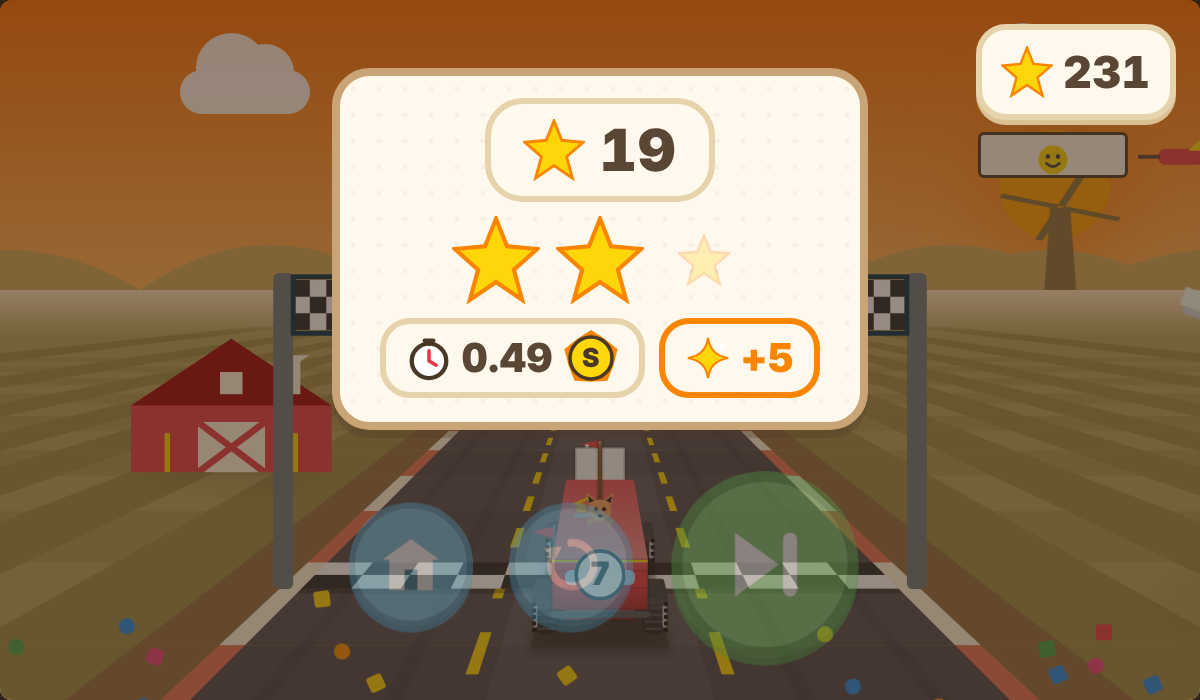
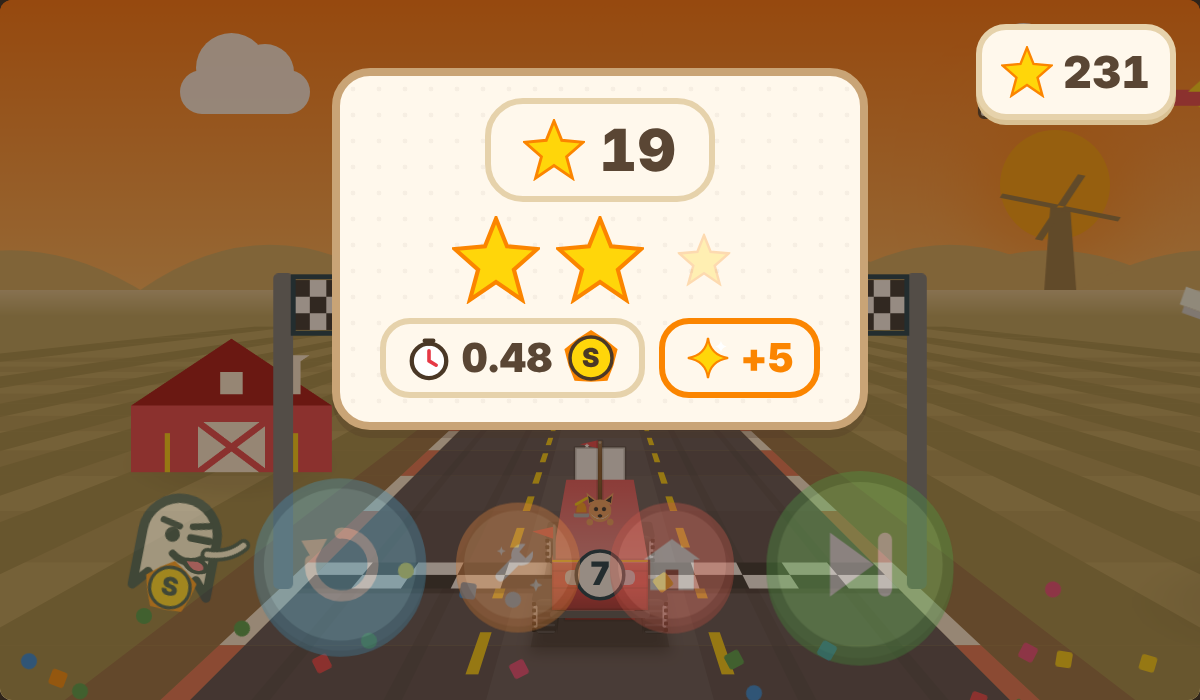
The ghost to beat taunts from the left of AGAIN (v13.10.1)
The tease no longer hides under the results card above the button: it sits out to the left
of AGAIN as a taunting ghost (ghostTauntIcon: eyes on the button, one winking, tongue out, an
arm waving it over) on a wobble that leans in toward the button, with the tongue and arm on
their own loops and the medal hanging below. The parade's slashed ghost stays calm and faded.
All of it is in the reduced-motion list. docs/celebrate.png regenerated. Battery 450/450.

Claude-Session: https://claude.ai/code/session_016ck1aPGLVyXfjAcF2qTzon

diff --git a/index.html b/index.html
@@ -654,15 +654,21 @@
   #celebrateHomeBtn { background: #e63946; }
   #garageBtn svg, #celebrateHomeBtn svg { width: 64px; height: 64px; }
   #nextBtn { background: #38b000; margin-left: 10px; }
-  /* the ghost to beat bobs over AGAIN wearing the medal its time earns; on the parade there is no ghost: a slashed one */
-  #ghostTease { position: absolute; left: 50%; top: -104px; width: 100px; height: 100px; margin-left: -50px; display: none; pointer-events: none; animation: teaseBob 1.6s ease-in-out infinite; }
+  /* the ghost to beat taunts from the left of AGAIN (13.10.1): wobbling and leaning in, tongue out, one arm
+     waving "come on", wearing the medal its time earns; on the parade there is no ghost: a slashed one, still */
+  #ghostTease { position: absolute; left: -152px; top: 14px; width: 120px; height: 120px; display: none; pointer-events: none; animation: teaseTaunt 1.5s ease-in-out infinite; transform-origin: 50% 90%; }
   #ghostTease.show { display: block; }
-  #ghostTease .gIcon, #ghostTease .gIcon svg { position: absolute; inset: 0; width: 100px; height: 100px; }
+  #ghostTease .gIcon, #ghostTease .gIcon svg { position: absolute; inset: 0; width: 120px; height: 120px; overflow: visible; }
+  #ghostTease .gTongue { transform-box: fill-box; transform-origin: center top; animation: tongueWag .32s ease-in-out infinite alternate; }
+  #ghostTease .gWave { transform-box: fill-box; transform-origin: left center; animation: armWave .55s ease-in-out infinite alternate; }
   #ghostTease .gMedal, #ghostTease .gMedal svg { position: absolute; width: 54px; height: 54px; }
-  #ghostTease .gMedal { left: 50%; bottom: -8px; margin-left: -27px; }
-  #ghostTease .gSlash { position: absolute; inset: 0; width: 100px; height: 100px; }
+  #ghostTease .gMedal { left: 50%; bottom: -16px; margin-left: -27px; }
+  #ghostTease .gSlash { position: absolute; inset: 0; width: 120px; height: 120px; }
   #ghostTease.none { opacity: .5; animation: none; }
-  @keyframes teaseBob { 0%,100% { transform: translateY(0); } 50% { transform: translateY(-14px); } }
+  #ghostTease.none .gTongue, #ghostTease.none .gWave { animation: none; }
+  @keyframes teaseTaunt { 0%, 100% { transform: translate(0, 0) rotate(-9deg); } 25% { transform: translate(10px, -10px) rotate(9deg); } 50% { transform: translate(18px, -4px) rotate(-5deg); } 75% { transform: translate(8px, -14px) rotate(11deg); } }
+  @keyframes tongueWag { from { transform: scaleY(.55) rotate(-8deg); } to { transform: scaleY(1.15) rotate(10deg); } }
+  @keyframes armWave { from { transform: rotate(-28deg); } to { transform: rotate(34deg); } }
   @keyframes pulse { 0%,100% { transform: scale(1); } 50% { transform: scale(1.09); } }
   .confetti {
     position: absolute; top: -30px; width: 16px; height: 16px; z-index: 29;
@@ -1611,7 +1617,7 @@ html, body { background: #2f241a; }               /* warm dark letterbox, was na
 /* --- reduced motion: decorative keyframes off (pulses, nudges, pop-ins, confetti, idle bobs, shimmers,
    accessory flutter); the functional ones (scene iris, chip pops, deny shakes, road hits) stay but short --- */
 @media (prefers-reduced-motion: reduce) {
-  .updateGate, #nextBtn, #replayBtn, #ghostTease, #goBtn.nudge, #gasPedal.nudge, .catTab.needs .alert, .tile.urgent, #previewLock, #priceTag:not(.deny),
+  .updateGate, #nextBtn, #replayBtn, #ghostTease, #ghostTease .gTongue, #ghostTease .gWave, #goBtn.nudge, #gasPedal.nudge, .catTab.needs .alert, .tile.urgent, #previewLock, #priceTag:not(.deny),
   .enter, .tile.enter, .tile.justSel.enter, #celebrate.active #resultsCard, #importConfirm.show #importCard, #deleteConfirm.show #deleteCard, #deleteHold.holding .lid, #numCard, #peekCard, #stickerToast.show,
   .confetti, .buddyBob, .buddyPop, .hoverBob, .hoverGlow, .hoverTrail, .spinner, .rearFlame, .flapWing, .boosterFlame, .antennaSway, .bubbleDrift,
   .lavaGlow, .maneWave, .lightFlashA, .lightFlashB, .jetPuff, .discoGlint, .decalShimmer, .decalStomp, .decalSpin, .decalFlicker, .decalTwinkle,
@@ -2056,7 +2062,7 @@ html, body { background: #2f241a; }               /* warm dark letterbox, was na
 /* ===== 0. VERSION ===== */
 /* Bumped with each release alongside package.json; shown as a tiny numeral row in the
    grown-ups (profile) panel. The update gate fingerprints the code itself, not this. */
-const APP_VERSION = "13.10.0";
+const APP_VERSION = "13.10.1";
 /* the game's name as the OS sees it (share sheets). The <title>, the apple-mobile-web-app-title meta and
    manifest.webmanifest carry the same word; storage keys and save-code prefixes keep "vroom" forever. */
 const GAME_NAME = "Zoomies";
@@ -5965,7 +5971,7 @@ function renderGhostTease(g) {
   tease.classList.add("show");
   tease.classList.toggle("none", !g);
   tease.innerHTML = g
-    ? `<span class="gIcon">${ghostIcon}</span><span class="gMedal">${medalSVG(timeTier(level, g.t))}</span>`
+    ? `<span class="gIcon">${ghostTauntIcon}</span><span class="gMedal">${medalSVG(timeTier(level, g.t))}</span>`
     : `<span class="gIcon">${ghostIcon}</span><svg class="gSlash" viewBox="0 0 100 100"><path d="M18 84 L82 16" stroke="#e63946" stroke-width="11" stroke-linecap="round"/></svg>`;
 }
 document.getElementById("replayBtn").addEventListener("pointerdown", e => { e.stopPropagation(); sfx.pop(); drive(lastPlayed); });
@@ -8381,6 +8387,8 @@ let ghostTrace = null;      /* the stored { t, p } being replayed */
 let ghostSprite = null;     /* its sprite (see makeSprite); not in props, so no PROP_HIT / mover ever sees it */
 let ghostT = 0, ghostGapIdx = 0, ghostGapShown = "";
 const hudGhost = document.getElementById("hudGhost");
+/* the taunting ghost (13.10.1): eyes on the AGAIN button to its right, one eye winking, tongue out, an arm waving it over */
+const ghostTauntIcon = `<svg viewBox="0 0 64 64"><path d="M12 60 V30 A20 20 0 0 1 52 30 V60 L45 52 L38 60 L32 52 L26 60 L19 52 Z" fill="#fff" stroke="#023047" stroke-width="5" stroke-linejoin="round"/><circle cx="28" cy="30" r="4" fill="#023047"/><path d="M38 30 L48 30" stroke="#023047" stroke-width="4" stroke-linecap="round"/><path d="M22 23 L31 25 M38 24 L47 22" stroke="#023047" stroke-width="3.5" stroke-linecap="round"/><path d="M30 40 Q38 46 46 40" stroke="#023047" stroke-width="4" fill="none" stroke-linecap="round"/><g class="gTongue"><path d="M36 42 Q40 56 48 50 Q50 44 44 41 Z" fill="#ff6b9d" stroke="#023047" stroke-width="3" stroke-linejoin="round"/></g><g class="gWave"><path d="M52 38 Q62 32 64 22" stroke="#023047" stroke-width="7" fill="none" stroke-linecap="round"/><path d="M52 38 Q62 32 64 22" stroke="#fff" stroke-width="3" fill="none" stroke-linecap="round"/></g></svg>`;
 const ghostIcon = `<svg viewBox="0 0 64 64"><path d="M12 60 V30 A20 20 0 0 1 52 30 V60 L45 52 L38 60 L32 52 L26 60 L19 52 Z" fill="#fff" stroke="#023047" stroke-width="5" stroke-linejoin="round"/><circle cx="25" cy="30" r="4" fill="#023047"/><circle cx="39" cy="30" r="4" fill="#023047"/></svg>`;
 const ghostCheckIcon = `<svg viewBox="0 0 64 64"><circle cx="32" cy="32" r="26" fill="#38b000"/><path d="M18 33 L28 43 L47 22" stroke="#fff" stroke-width="8" fill="none" stroke-linecap="round" stroke-linejoin="round"/></svg>`;
 function ghostValid(g) {

diff --git a/TASKS.md b/TASKS.md
@@ -209,6 +209,10 @@
 - [x] T32.2: The title as a moving world (section 30). Ten parallax strips built once by `buildTitleWorld()` (two cloud layers, two hill bands, a tree line, each a 1200 px tile drawn twice and slid a full tile per loop so there is no seam), a sun with turning rays, two birds crossing, the road dashes streaming at 437 px/s with the car's `.wheelrot` groups turning to match, exhaust puffs off the tail, a shadow on the tire line (`placeTitleGround()` measures `--tGround` per body, tracks and hover rings included). Entrance: the gold-rimmed badge slams in behind a shock ring and then floats with a glint sweep and four twinkles; the car drives in from off-stage; GO pops last and keeps a halo ring rolling outward with a gloss cap. Every keyframe is scoped to `#title.active` so nothing runs behind the garage, and all of it is off under `prefers-reduced-motion`. [SPID]
 - [x] T32.3: The update gate on the title. `#titleUpdateBtn` beside the avatar shares `.updateGate` with the garage button; `checkForUpdate` arms both and the hold logic fills whichever ring is held (`updateHeld`). update-check 5 -> 8, title-check 13 -> 17, battery 443 -> 450. [SPID]
 
+## v13.10.1 (2026-10-10, user-directed: "move the hovering ghost out to the left and have him taunting")
+
+- [x] T32.4: The ghost to beat now taunts from the left of AGAIN instead of hiding under the results card: `ghostTauntIcon` (eyes on the button, one winking, tongue out, an arm waving it over) on a `teaseTaunt` wobble that leans in toward the button, with `tongueWag` and `armWave` on their own loops, the medal hanging below. The parade's slashed ghost stays calm and half-faded. All of it is in the reduced-motion list. [SPID]
+
 ## Backlog (v2 candidates, from kid-testing)
 
 - [ ] T2.1: Real-device iOS pass: audio unlock, multi-touch, add-to-home-screen icon.
